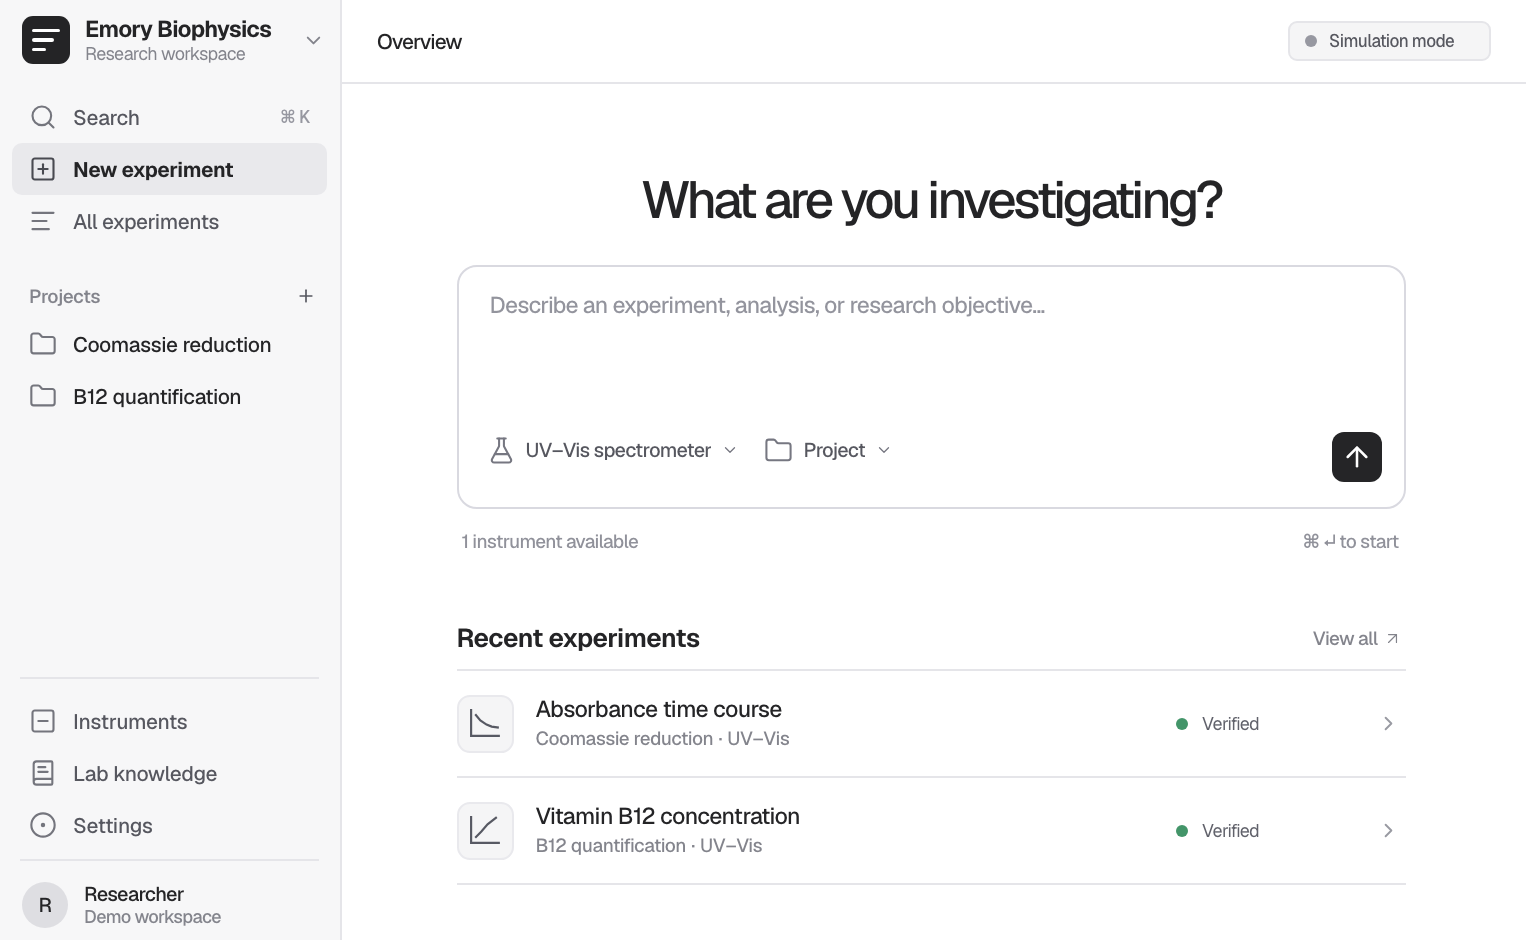
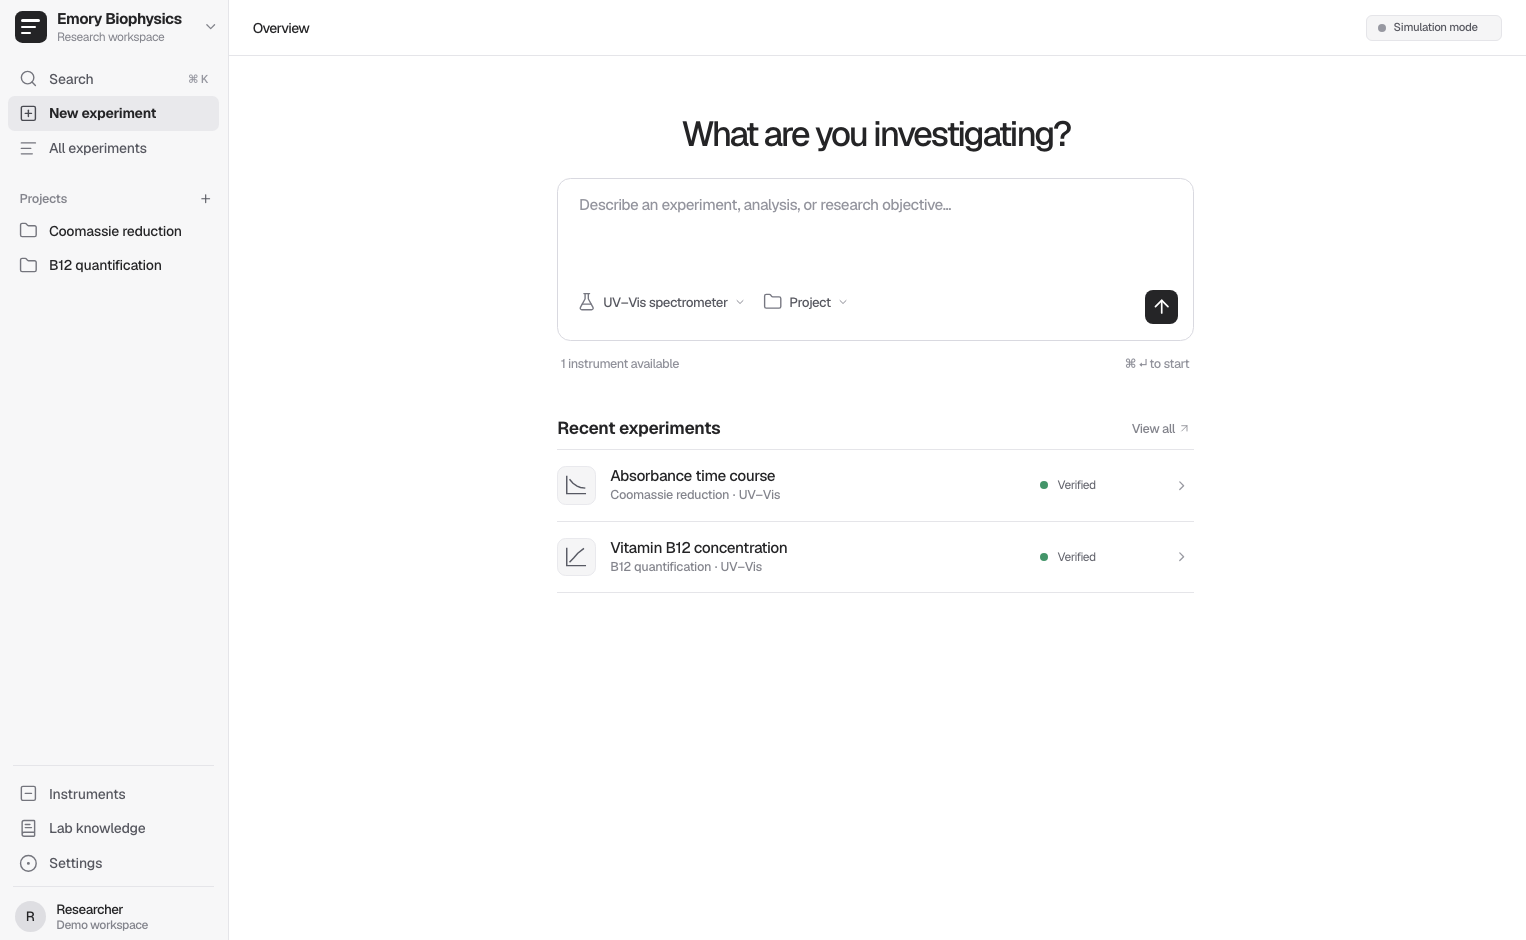
Use compact 67 percent scale for the desktop prototype

diff --git a/reference-ui/app/tokens.css b/reference-ui/app/tokens.css
@@ -1,4 +1,5 @@
 :root {
+  --desktop-scale: 0.67;
   --ink: #242426;
   --muted: #56575f;
   --subtle: #83848c;
@@ -23,4 +24,11 @@
   --motion: 140ms;
   --sidebar-width: clamp(245px, 22.42vw, 342px);
   --ui-font: var(--font-geist, "Geist"), Arial, sans-serif;
+}
+
+/* Apply the reviewed desktop density across the shell, charts and dialogs. */
+@media (min-width: 961px) {
+  html {
+    zoom: var(--desktop-scale);
+  }
 }

diff --git a/reference-ui/app/workspace.css b/reference-ui/app/workspace.css
@@ -834,7 +834,7 @@ button {
     transform: translateY(0);
   }
 }
-@media (max-width: 1200px) {
+@media (max-width: 960px) {
   .ws-home,
   .ws-page {
     width: calc(100% - 90px);
